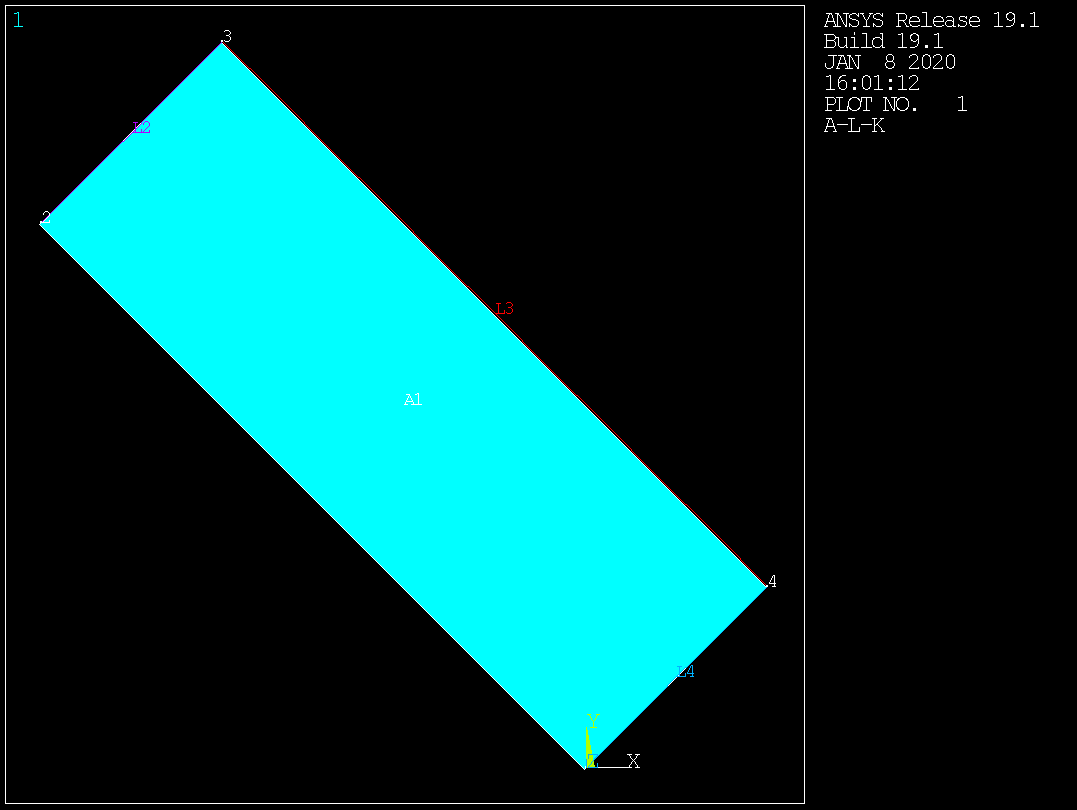
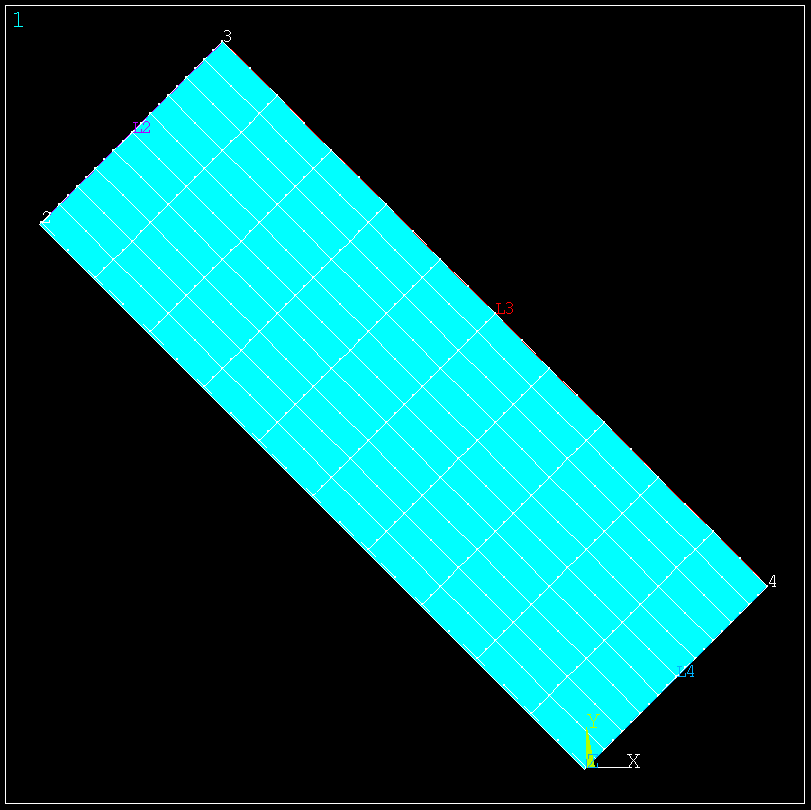
implemented Geometry2.set_element_type improved README.rst

Changed region(s): [[0.0, 0.0, 0.9556, 0.9877], [0.7398, 0.0, 0.9556, 0.1852], [0.3699, 0.463, 0.4007, 0.4938]]

diff --git a/pyansystools/geo2d.py b/pyansystools/geo2d.py
@@ -88,7 +88,7 @@ class Geometry2d():
         self._destination = copy.deepcopy(destination)
 
         self._raw_points = []  # basic positions of geometry
-        self.points = []  # actual positions including rotation and shift
+        self.points = []  # actual positions including degrees and shift
         self.keypoints = []  # ansys keypoint numbers
         self.lines = []  # ansys line numbers clockwise starting on left side
         self.areas = []  # ansys area numbers
@@ -128,7 +128,8 @@ class Geometry2d():
                 self.keypoints.append(self._mapdl.k("", *point.get_list()))
 
     def set_element_type(self, et):
-        pass  # todo
+        self.select_areas()
+        self._mapdl.aatt("", "", et)
 
     def set_material_number(self, mat):
         assert self.areas is not [], "Can't set material number without area"
@@ -212,17 +213,16 @@ class Geometry2d():
         return (math.isclose(x, point.x, abs_tol=tol)
                 and math.isclose(y, point.y, abs_tol=tol))
 
-    def set_destination(self, point):
+    def set_destination(self, point: Point) -> None:
         """
         Sets destination of geometry and recalc points.
         Use before calling create() or create_merged_to().
         Does not change already created data inside ANSYS.
 
-        Parameters
-        ----------
-        point : Point2D
-            Destination coordinates for geometry.
+        :param point: Destination coordinates for geometry.
+        :return: None
         """
+
         self._destination.x = point.x
         self._destination.y = point.y
         self._calc_points()
@@ -241,7 +241,7 @@ class Geometry2d():
         self._rotation_angle = radians
         self._calc_points()
 
-    def set_rotation_in_degree(self, rotation):
+    def set_rotation_in_degree(self, degrees):
         """
         Sets rotation_angle of geometry and recalc points.
         Use before calling create() or create_merged_to().
@@ -249,10 +249,10 @@ class Geometry2d():
 
         Parameters
         ----------
-        rotation : float
+        degrees : float
             Rotation of geometry in degrees.
         """
-        self.set_rotation(rotation / 180 * math.pi)
+        self.set_rotation(degrees / 180 * math.pi)
 
 
 class Polygon(Geometry2d):
@@ -260,7 +260,7 @@ class Polygon(Geometry2d):
     A polygonal geometry constructed with a list of points.
     The points should be given in a clockwise manner starting
     at bottom left. Also, the first point should be at (0,0) if
-    it shall be used as origin point (for rotation and destination).
+    it shall be used as origin point (for degrees and destination).
     There can be exceptions to this, for example when creating a circle.
     """
 
@@ -300,7 +300,7 @@ class Polygon(Geometry2d):
         super().select_lines()
         for line in self.lines:
             self._mapdl.lesize(line, "", "", nir)
-            super()._mesh()
+        super()._mesh()
 
     def create_merged_to(self, geometry2d):
         """

diff --git a/docs/example_code.py b/docs/example_code.py
@@ -1,9 +1,35 @@
 import pyansys
-from pyansystools.geo2d import Rectangle
+from pyansystools.geo2d import Geometry2d, Point2D, Rectangle
+
+
+# geometry2d is meant to be subclassed; it does not define any keypoints etc. to create
+def example_geometry2d():
+    geometry = Geometry2d()
+
+    # following methods do not change already created data inside ANSYS
+    geometry.set_rotation(radians=1.0)
+    geometry.set_rotation_in_degree(degrees=20.0)
+    geometry.set_destination(point=Point2D(2, -3))
+
+    geometry.create()  # this this creates the keypoints, lines and areas in ANSYS
+    # Warning: Changes to geometry won't be transfered to ANSYS after this call.
+    # If you call create() a second time, a new geometry is created!
+
+    # Beware! Some APDL-functions change keypoint numbers.
+    # In current version, Geometry2D is not updated automatically.
+    geometry.keypoints  # list of ANSYS keypoint numbers
+    geometry.lines  # lit of ANSYS line numbers
+    geometry.areas  # list of ANSYS area numbers
+
+    geometry.select_lines()  # Selects all lines belonging to the geometry (deselecting all other lines).
+    geometry.select_areas()  # Selects all areas belonging to the geometry (deselecting all other areas).
+
+    geometry.set_material_number(mat=3)
 
 
 def main():
     example_geo2d_rectangle_01()
+
 
 def example_geo2d_rectangle_01():
     mapdl = pyansys.Mapdl(override=True, interactive_plotting=True,
@@ -11,7 +37,12 @@ def example_geo2d_rectangle_01():
 
     rectangle = Rectangle(mapdl, b=10, h=30)
     rectangle.set_rotation_in_degree(45)
+
     rectangle.create()  # create keypoints, lines and area in ANSYS
+
+    rectangle.set_element_type(mapdl.et("", "PLANE183"))
+    rectangle.mesh(10)
+    # or: rectangle.mesh_custom(...)
 
     mapdl.pnum("KP", 1)
     mapdl.pnum("LINE", 1)

diff --git a/README.rst b/README.rst
@@ -30,8 +30,41 @@ Module geo2d
 ............
 
 Class Geometry2d
-,,,,,,,,,,,,,,,
+,,,,,,,,,,,,,,,,
 Geometry2d provides some basic functionality to handle 2D geometries. This class is meant to be subclassed for each specific geometry (like Rectangle).
+
+.. code:: python
+
+    import pyansys
+    from pyansystools.geo2d import Geometry2d, Point2D, Rectangle
+    geometry = Geometry2d()
+
+    # following methods do not change already created data inside ANSYS
+    geometry.set_rotation(radians=1.0)
+    geometry.set_rotation_in_degree(degrees=20.0)
+    geometry.set_destination(point=Point2D(2, -3))
+
+    geometry.create()  # this creates the keypoints, lines and areas in ANSYS
+    # Warning: Changes to geometry won't be transfered to ANSYS after this call.
+    # If you call create() a second time, a new geometry is created!
+
+    # Beware! Some APDL-functions change keypoint numbers.
+    # In current version, Geometry2D is not updated automatically.
+    geometry.keypoints  # list of ANSYS keypoint numbers
+    geometry.lines  # lit of ANSYS line numbers
+    geometry.areas  # list of ANSYS area numbers
+
+    geometry.select_lines()  # Selects all lines belonging to the geometry (deselecting all other lines).
+    geometry.select_areas()  # Selects all areas belonging to the geometry (deselecting all other areas).
+
+    geometry.set_material_number(mat=3)
+
+All subclasses have to implement at least:
+    * __init__()
+    * _calc_raw_points()
+    * a method for meshing
+
+Look at class Rectangle for an easy example how to subclass correctly.
 
 Class Rectangle
 ,,,,,,,,,,,,,,,
@@ -43,6 +76,10 @@ Class Rectangle
     rectangle.set_rotation_in_degree(45)
     rectangle.create()  # create keypoints, lines and area in ANSYS
 
+    rectangle.set_element_type(mapdl.et("", "PLANE183"))
+    rectangle.mesh(10)
+    # or: rectangle.mesh_custom(...)
+
     mapdl.pnum("KP", 1)
     mapdl.pnum("LINE", 1)
     mapdl.pnum("AREA", 1)
@@ -51,7 +88,7 @@ Class Rectangle
     mapdl.exit()
 
 .. figure:: https://github.com/natter1/pyansystools/raw/master/docs/images/example_geo2d_rectangle_01.png
-
+    :width: 500pt
 
 Module inline
 .............
